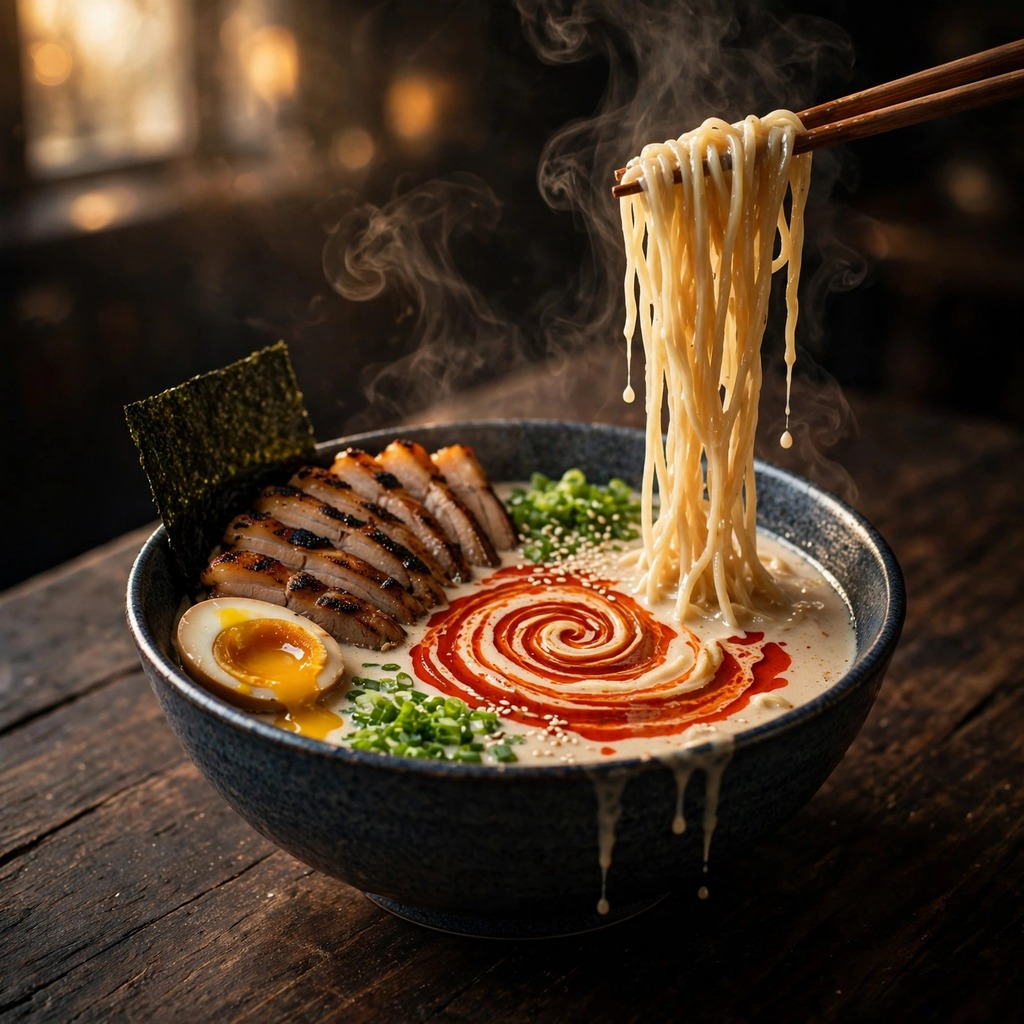
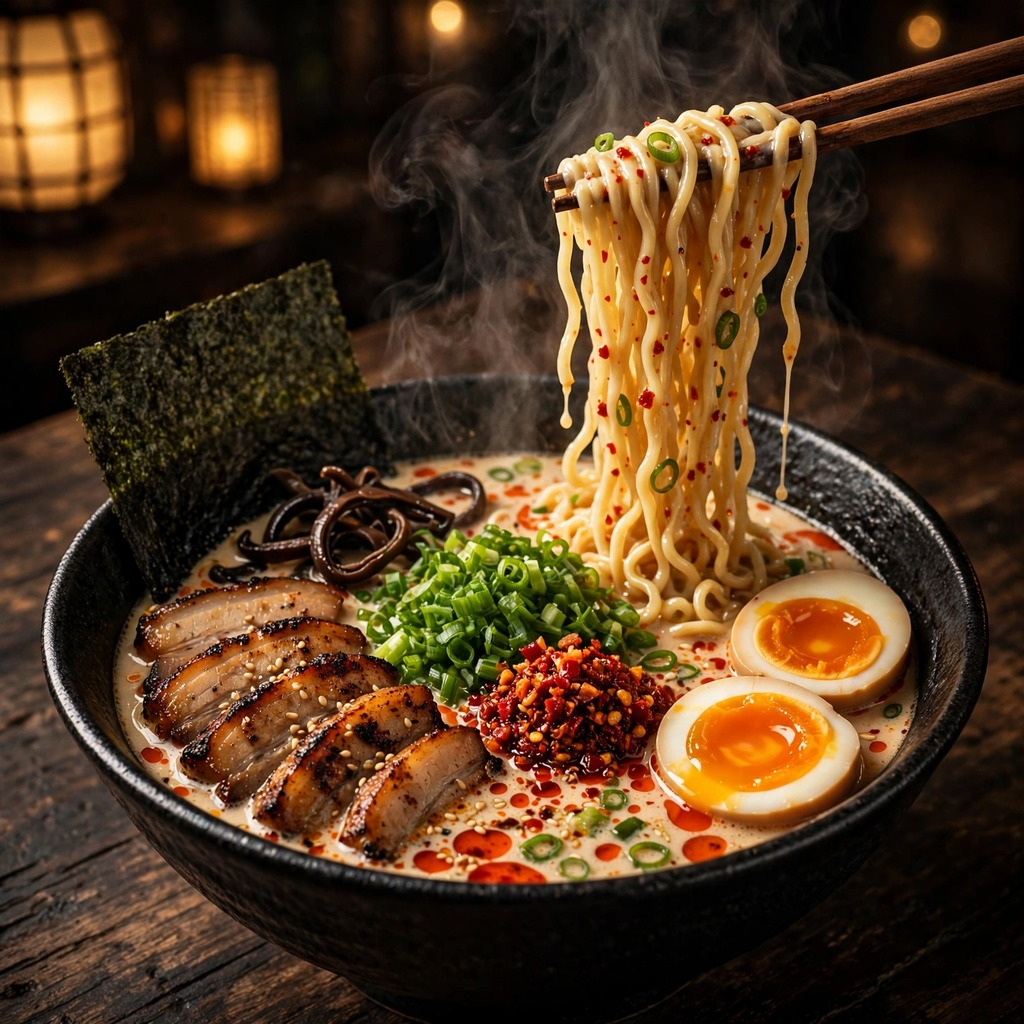
make.fun food-picture-01 entry round 2c: Tonkotsu Ramen — Tall Noodle Pull, Two Jammy Eggs & Chili Crisp

diff --git a/main.py b/main.py
@@ -18,11 +18,13 @@ The bundled picture is JPEG data (the competition reads the file by its
 first bytes, and the name stays entry.png either way), so the copy is a
 straight byte-for-byte copy with no re-encoding. The picture shows a
 tonkotsu ramen bowl on a dark wooden table, shot square from a high
-angle: wooden chopsticks lifting a tall, neat pull of glossy noodles
-with creamy broth dripping, a vivid red chili-oil spiral across the
-broth, an upright nori sheet at the left rim, a fan of seared chashu,
-a jammy egg with its golden yolk dripping, and generous scallions and
-sesame, steam curling through warm backlight.
+angle: wooden chopsticks lifting a tall pull of glossy noodles flecked
+with red chili flakes and scallion rings, creamy broth dripping; a large
+upright nori sheet at the left rim; a fan of seared chashu with charred
+edges and sesame; two halved jammy eggs with bright orange runny yolks;
+a generous pile of scallions, a mound of red chili crisp, red chili-oil
+pools in the broth, and dark wood-ear mushroom strips, steam curling
+through warm lantern light.
 """
 
 import hashlib

diff --git a/README.md b/README.md
@@ -1,21 +1,23 @@
-# Tonkotsu Ramen — Tall Noodle Pull, Chili-Oil Spiral
+# Tonkotsu Ramen — Tall Noodle Pull, Two Jammy Eggs & Chili Crisp
 
 make.fun **food-picture-01** entry — "Make the best-looking food picture".
 
 ## The dish
 
 A steaming bowl of tonkotsu ramen on a dark wooden table, shot square
-from a high angle with warm window light behind it. Wooden chopsticks
-lift a tall, neat pull of glossy vertical noodle strands high above
-the bowl, creamy broth dripping back down. A vivid red chili-oil spiral winds across the
-creamy broth, an upright nori sheet stands at the left rim, and below
-sit a fan of seared chashu pork, a jammy soft egg with its golden yolk
-dripping, and generous scallions and sesame. One big clear hero dish
-that stays legible even at small size.
+from a high angle with warm lantern light behind it. Wooden chopsticks
+lift a tall pull of glossy noodles flecked with red chili flakes and
+scallion rings, creamy broth dripping back down. A large upright nori
+sheet stands at the left rim, and below sit a fan of seared chashu
+pork with charred edges and sesame, two halved jammy eggs with bright
+orange runny yolks, a generous pile of chopped scallions, a mound of
+red chili crisp, red chili-oil pools in the creamy broth, and dark
+wood-ear mushroom strips. One big clear hero dish that stays legible
+even at small size.
 
 ## The picture
 
-The entry image is `entry.png` — a 1024x1024 px JPEG (233,953 bytes),
+The entry image is `entry.png` — a 1024x1024 px JPEG (291,586 bytes),
 baked into this repository at build time. The competition reads the
 file by its first bytes, so JPEG data under the name `entry.png` is
 valid.
